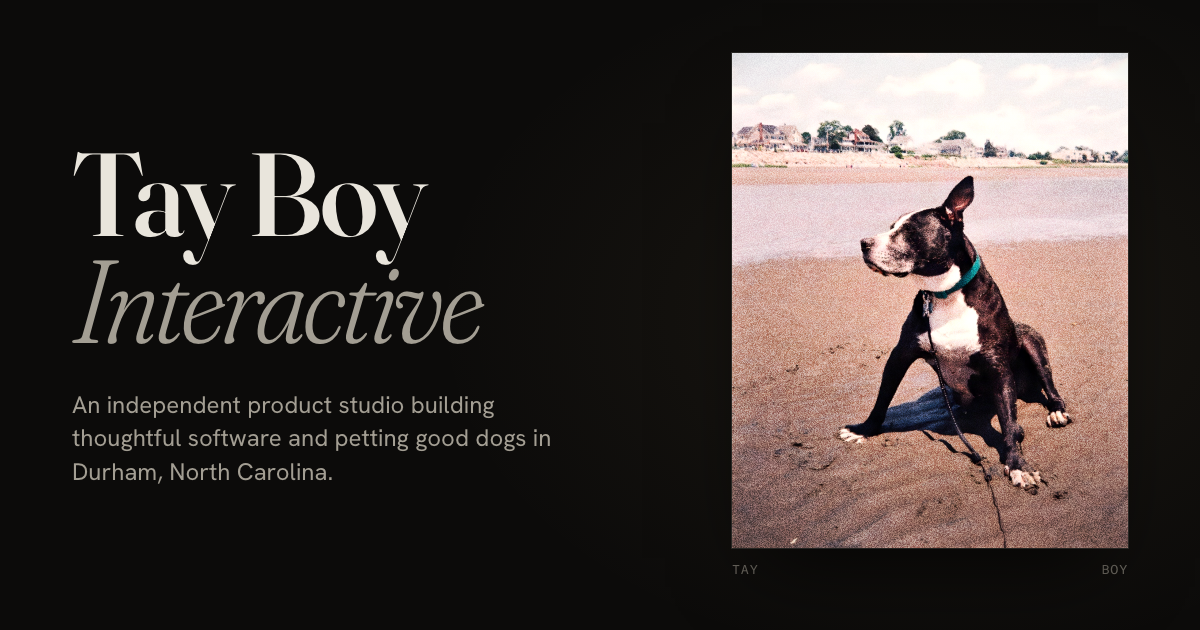
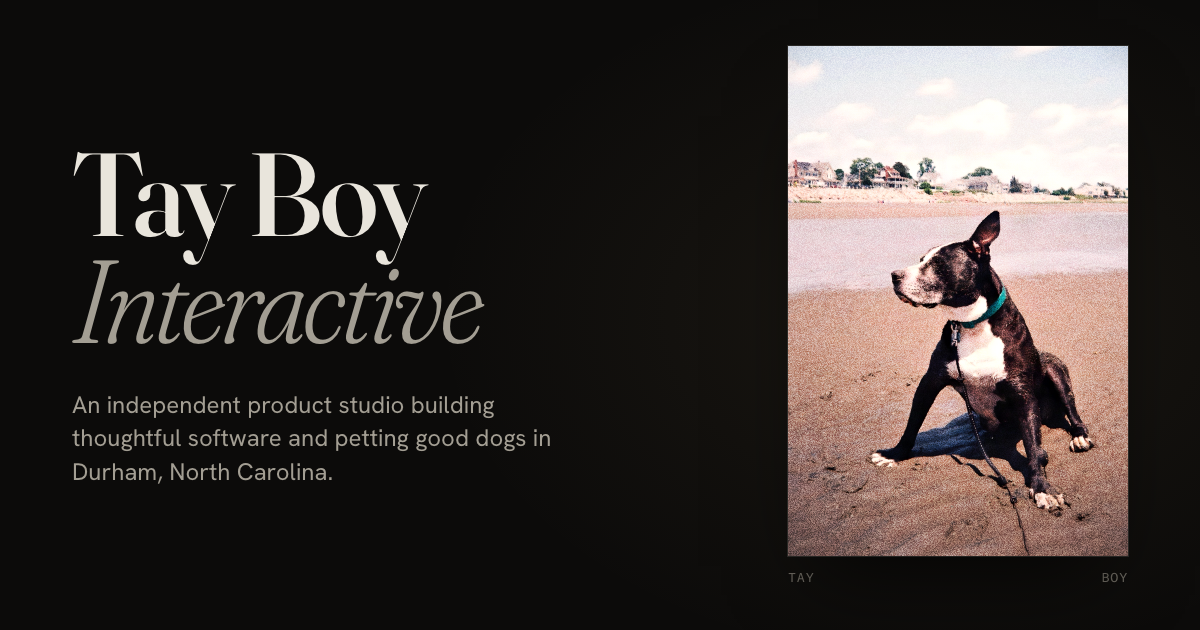
Print: 2:3 vertical crop of the beach photo, height-capped frame, share card to match

Changed region(s): [[0.5858, 0.0603, 0.9558, 0.9349]]

diff --git a/index.html b/index.html
@@ -40,7 +40,7 @@
 
       <figure class="print">
         <div class="print__frame">
-          <img class="print__img" src="assets/tay.jpg" width="1000" height="1250"
+          <img class="print__img" src="assets/tay.jpg" width="1000" height="1500"
                title="In loving memory of Tay. ♥"
                alt="In loving memory of Tay. ♥ Tay, a black and white pit bull, sitting on a wet beach at low tide, head turned toward the water, with houses along the shore behind him." fetchpriority="high">
           <canvas class="print__grain" aria-hidden="true"></canvas>

diff --git a/style.css b/style.css
@@ -190,7 +190,8 @@ main {
   margin: 0;
   position: relative;
   justify-self: end;
-  width: min(100%, 460px);
+  /* 2:3 print: cap the width by viewport height so the frame stays above the fold on short laptops */
+  width: min(100%, 460px, calc((100svh - 200px) * 2 / 3));
   animation: fade-up 1.6s var(--ease-out) 0.35s both;
 }
 
@@ -198,7 +199,7 @@ main {
   position: relative;
   overflow: hidden;
   background: var(--bg-2);
-  aspect-ratio: 4 / 5;
+  aspect-ratio: 2 / 3;
   box-shadow:
     0 0 0 1px var(--line),
     0 40px 80px -30px rgba(0, 0, 0, 0.8);
